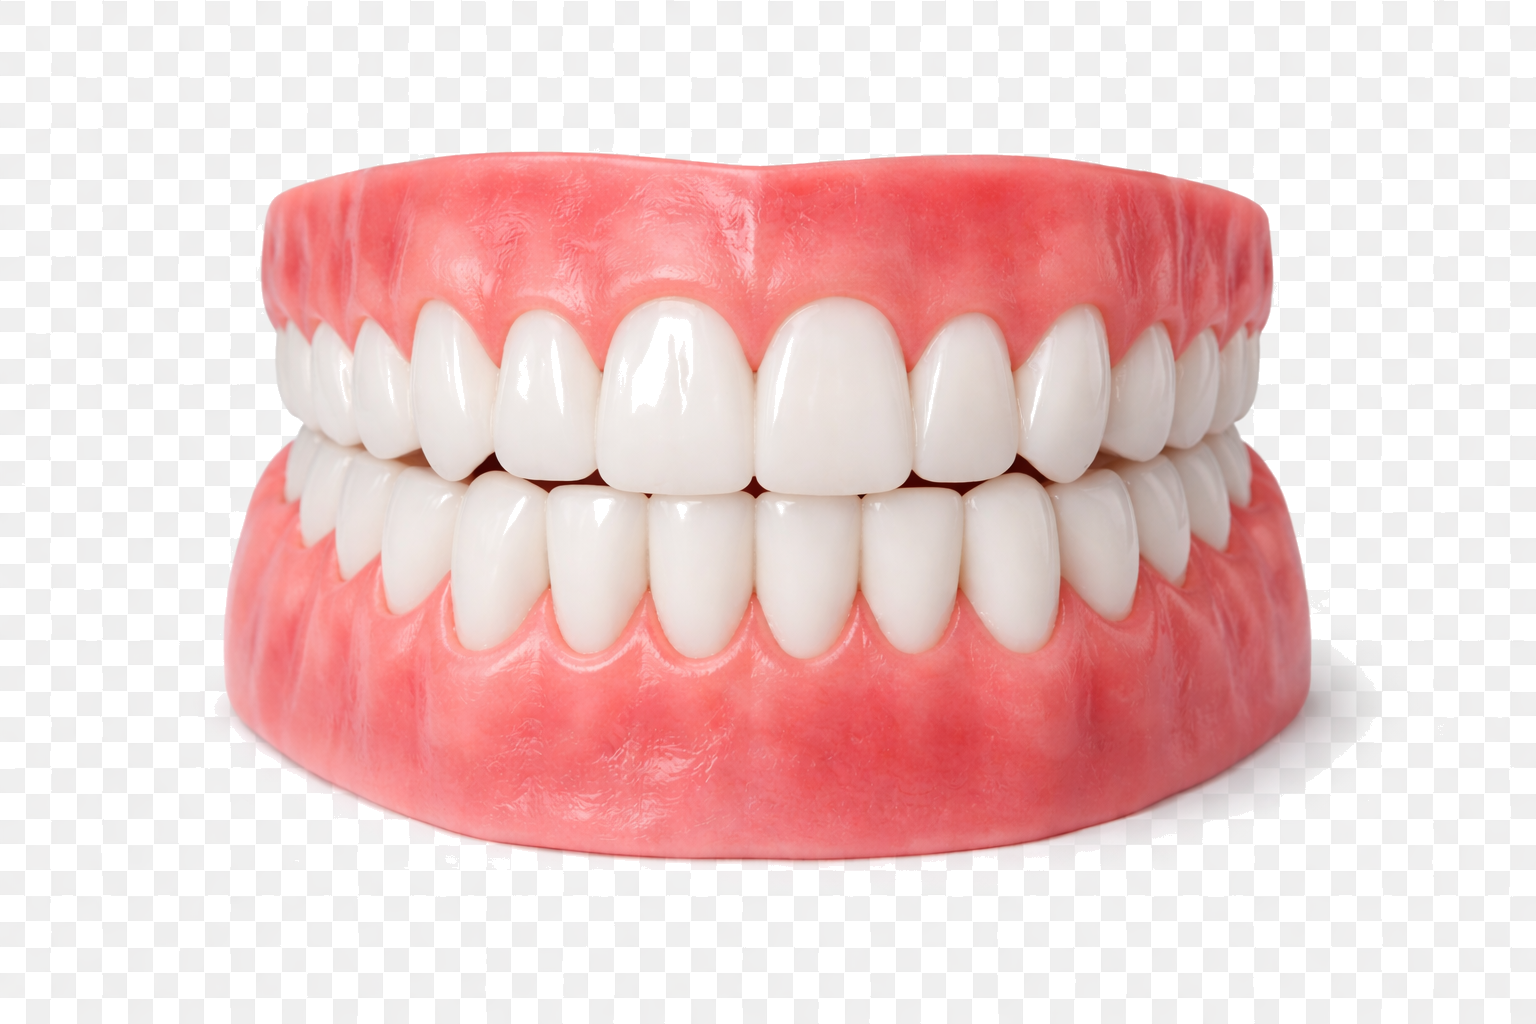
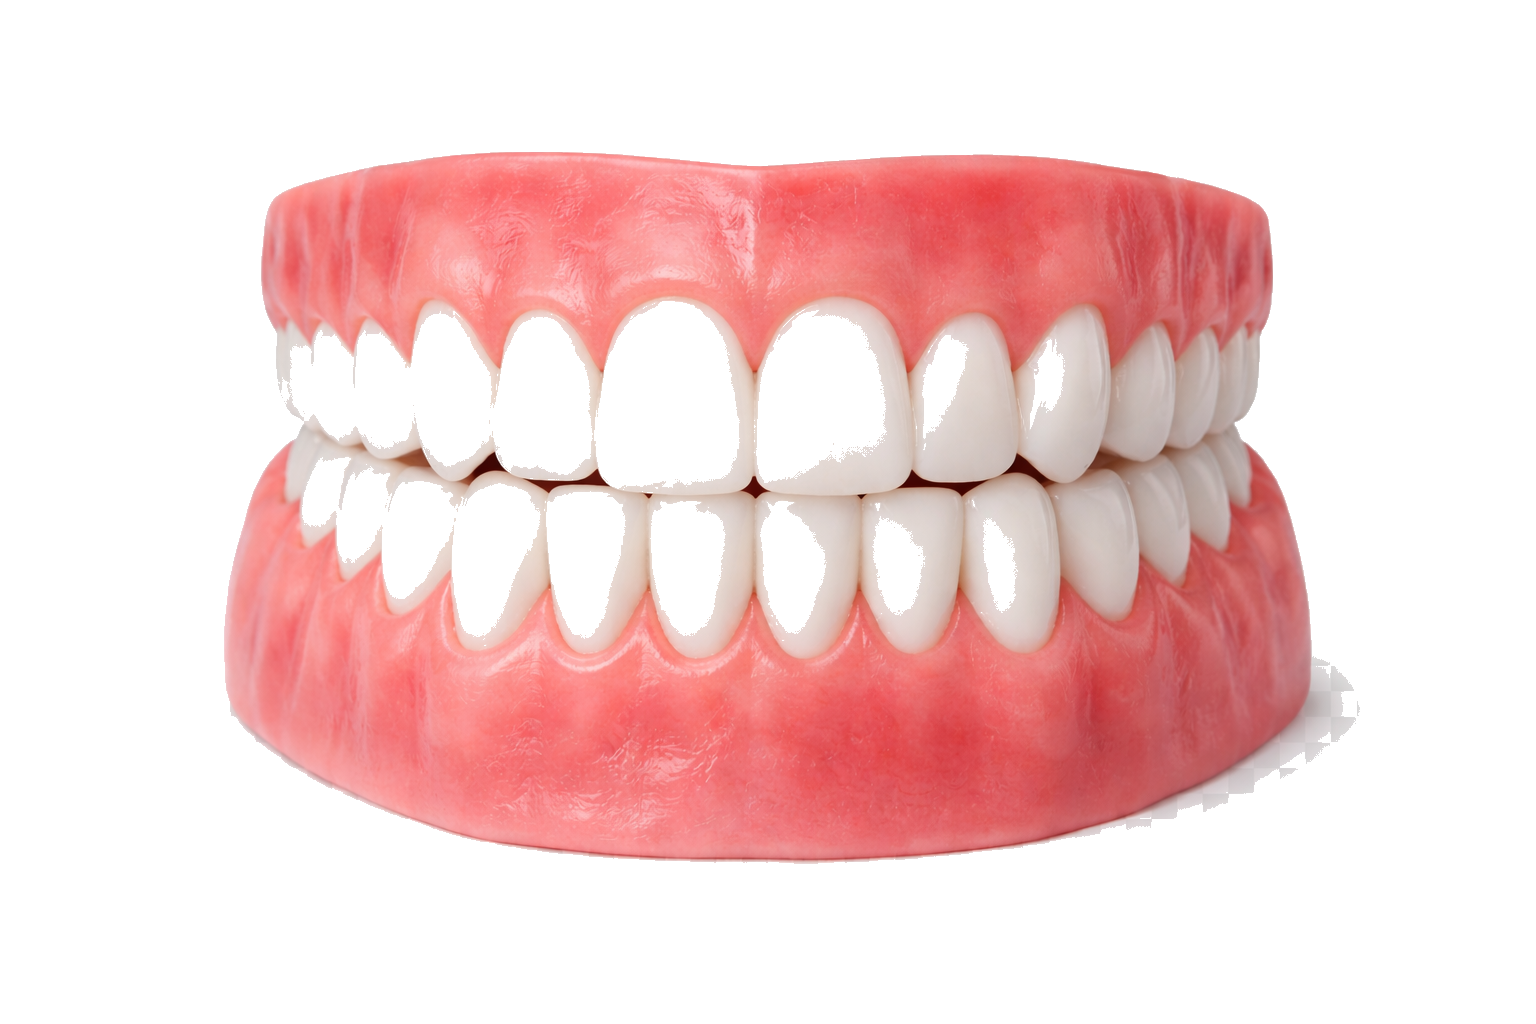
Fix cosmetic-smile.png checkered background and remove white bg from CSS
Cleaned baked-in checkerboard transparency pattern from the
cosmetic smile PNG using ImageMagick. Removed white background
from treatment-card-img CSS so all images display with no
background, matching the rest of the site.

diff --git a/assets/css/styles.css b/assets/css/styles.css
@@ -853,9 +853,6 @@ footer {
     height: 64px;
     object-fit: contain;
     margin-bottom: 1rem;
-    background: rgba(255,255,255,0.9);
-    border-radius: 12px;
-    padding: 8px;
 }
 
 .treatment-card h4 {
